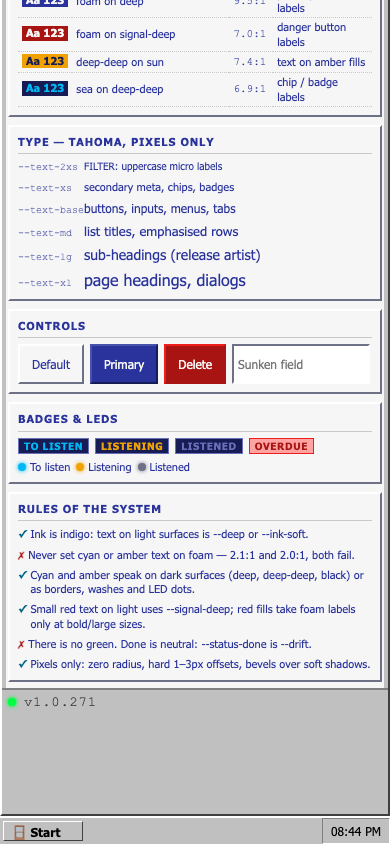
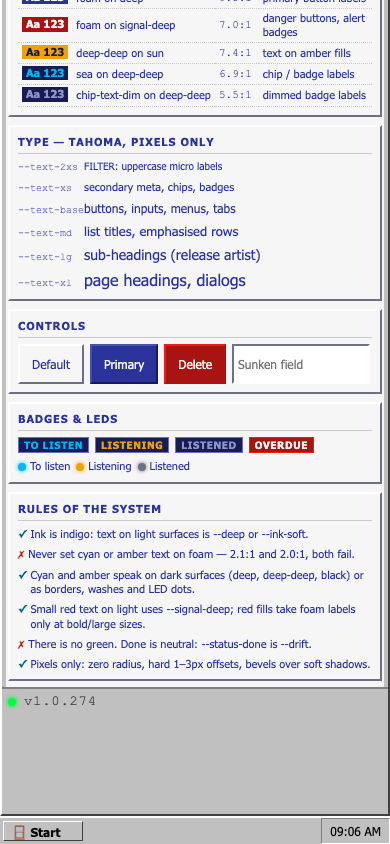
Drop the design system's --accent/--danger and fix badge contrast
--accent and --danger were defined both here and in main.css's :root, so
the design-system copies only survived on import order. They were unused:
drop them and leave a note so they don't come back. The legacy map in
docs/design-system.md stays the only bridge to the old tokens.

The badges failed the 4.5:1 gate for their 9px bold labels:
--chip-text-dim was --deep-soft on the well (3.5:1) and the alert badge
was --signal-deep on a --signal-soft wash (3.9:1). --chip-text-dim is now
its own hex, #8f96c9 (5.5:1 on the well), and the alert badge is a
--signal-deep well with a foam label (7.0:1) — what rule 3 already
prescribes for small red fills. Both pairings join the ledger in the doc
and on the page.

The sea and sun swatch labels now use the ramps' ink instead of failing
foam (2.1:1 / 2.0:1), and the doc screenshots are regenerated.

diff --git a/src/routes/design-system/+page.svelte b/src/routes/design-system/+page.svelte
@@ -1,10 +1,12 @@
 <script lang="ts">
+  // Label colours follow the ramps: ink on the light fills (sea, sun, foam),
+  // foam on the dark ones (signal, deep).
   const swatches = [
-    { name: "sea", hex: "#00b9f4", role: "links, focus, to-listen", onDark: true },
-    { name: "foam", hex: "#f6f6f6", role: "surfaces, panels, fields", onDark: false },
-    { name: "signal", hex: "#f01c1a", role: "danger, delete, errors", onDark: true },
-    { name: "sun", hex: "#f0a202", role: "warnings, listening, stars", onDark: true },
-    { name: "deep", hex: "#29339b", role: "text, primary buttons, wells", onDark: true },
+    { name: "sea", hex: "#00b9f4", role: "links, focus, to-listen", text: "#171c55" },
+    { name: "foam", hex: "#f6f6f6", role: "surfaces, panels, fields", text: "#29339b" },
+    { name: "signal", hex: "#f01c1a", role: "danger, delete, errors", text: "#f6f6f6" },
+    { name: "sun", hex: "#f0a202", role: "warnings, listening, stars", text: "#171c55" },
+    { name: "deep", hex: "#29339b", role: "text, primary buttons, wells", text: "#f6f6f6" },
   ];
 
   const ramps = [
@@ -115,7 +117,7 @@
       bg: "#a81412",
       bgName: "signal-deep",
       ratio: "7.0",
-      use: "danger button labels",
+      use: "danger buttons, alert badges",
     },
     {
       fg: "#171c55",
@@ -132,6 +134,14 @@
       bgName: "deep-deep",
       ratio: "6.9",
       use: "chip / badge labels",
+    },
+    {
+      fg: "#8f96c9",
+      fgName: "chip-text-dim",
+      bg: "#171c55",
+      bgName: "deep-deep",
+      ratio: "5.5",
+      use: "dimmed badge labels",
     },
   ];
 
@@ -195,11 +205,7 @@
         {#each swatches as s (s.name)}
           <div class="ds-swatch">
             <div class="ds-swatch__chip" style:background={s.hex}>
-              {#if s.onDark}
-                <span class="ds-swatch__hex" style:color="var(--foam)">{s.hex}</span>
-              {:else}
-                <span class="ds-swatch__hex" style:color="var(--deep)">{s.hex}</span>
-              {/if}
+              <span class="ds-swatch__hex" style:color={s.text}>{s.hex}</span>
             </div>
             <div class="ds-swatch__name">{s.name}</div>
             <div class="ds-swatch__role">{s.role}</div>

diff --git a/src/styles/design-system.css b/src/styles/design-system.css
@@ -58,10 +58,10 @@
   --link-hover: #004a62; /* pressed-ink hover on light */
   --link-on-dark: var(--sea); /* links on deep/black */
 
-  --accent: var(--sea);
+  /* --accent and --danger are main.css's legacy tokens; this file must not
+     redefine them — see the legacy map in docs/design-system.md. */
   --warning: var(--sun);
   --warning-text: var(--sun-deep);
-  --danger: var(--signal);
   --danger-text: var(--signal-deep);
 
   --focus: var(--sea); /* focus rings, marquee dots */
@@ -76,7 +76,7 @@
   --chip-text: var(--sea);
   --chip-border: var(--deep-soft);
   --chip-text-warn: var(--sun);
-  --chip-text-dim: var(--deep-soft);
+  --chip-text-dim: #8f96c9; /* dimmed label (5.5:1 on the well) */
 
   /* ── Buttons ── */
   --btn-primary-bg: var(--deep);
@@ -310,9 +310,11 @@
   color: var(--chip-text-dim);
 }
 
+/* Alert badges are red wells, not red washes: --signal-soft with a
+   --signal-deep label only reaches 3.9:1, below the 4.5:1 small-text gate. */
 .ds-badge--alert {
-  background: var(--signal-soft);
-  color: var(--signal-deep);
+  background: var(--signal-deep);
+  color: var(--foam);
   border-color: var(--signal);
 }
 

diff --git a/docs/design-system.md b/docs/design-system.md
@@ -46,25 +46,26 @@ disabled text and shadows.
   dark surfaces, where it hits 4.5:1 on `--deep`.
 - **Warnings** are `--sun` on dark (4.8:1), `--sun-deep` on light (5.7:1).
 - **Danger** is `--signal` for fills, borders and large text; small red text on light
-  and red button fills use `--signal-deep` (7:1 with foam labels).
+  and red fills (buttons, alert badges) use `--signal-deep` (7:1 with foam labels).
 - **Status:** to-listen is sea, listening is sun, listened is `--drift`. There is no
   green in this system by design.
 
 ## Allowed text pairings (WCAG AA checked)
 
-| Foreground  | Background  | Ratio | Use                   |
-| ----------- | ----------- | ----- | --------------------- |
-| deep        | foam        | 9.5:1 | body text             |
-| ink-soft    | foam        | 4.9:1 | secondary text        |
-| sea-deep    | foam        | 6.0:1 | links on light        |
-| signal-deep | foam        | 7.0:1 | danger text on light  |
-| sun-deep    | foam        | 5.7:1 | warning text on light |
-| sea         | deep        | 4.5:1 | links/labels on dark  |
-| sun         | deep        | 4.8:1 | warnings on dark      |
-| foam        | deep        | 9.5:1 | primary button labels |
-| foam        | signal-deep | 7.0:1 | danger button labels  |
-| deep-deep   | sun         | 7.4:1 | text on amber fills   |
-| sea         | deep-deep   | 6.9:1 | chip/badge labels     |
+| Foreground    | Background  | Ratio | Use                          |
+| ------------- | ----------- | ----- | ---------------------------- |
+| deep          | foam        | 9.5:1 | body text                    |
+| ink-soft      | foam        | 4.9:1 | secondary text               |
+| sea-deep      | foam        | 6.0:1 | links on light               |
+| signal-deep   | foam        | 7.0:1 | danger text on light         |
+| sun-deep      | foam        | 5.7:1 | warning text on light        |
+| sea           | deep        | 4.5:1 | links/labels on dark         |
+| sun           | deep        | 4.8:1 | warnings on dark             |
+| foam          | deep        | 9.5:1 | primary button labels        |
+| foam          | signal-deep | 7.0:1 | danger buttons, alert badges |
+| deep-deep     | sun         | 7.4:1 | text on amber fills          |
+| sea           | deep-deep   | 6.9:1 | chip/badge labels            |
+| chip-text-dim | deep-deep   | 5.5:1 | dimmed badge labels          |
 
 Anything not in this table needs a contrast check before it ships.
 
@@ -77,7 +78,10 @@ Anything not in this table needs a contrast check before it ships.
 4. No green. "Done" is neutral and dimmed.
 5. Pixels only: zero radius, hard 1–3px offset shadows, bevels over soft shadows.
 6. Chips/badges use the dark-well recipe: `--chip-bg` well, `--chip-text` label,
-   `--chip-border` edge; amber variant via `--chip-text-warn`.
+   `--chip-border` edge; amber variant via `--chip-text-warn`, dim via
+   `--chip-text-dim` (5.5:1 on the well). The alert variant is a `--signal-deep`
+   well with a foam label — a `--signal-soft` wash with a `--signal-deep` label
+   only reaches 3.9:1, below the 4.5:1 gate for 9px text.
 
 ## Relationship to the existing chrome
 
